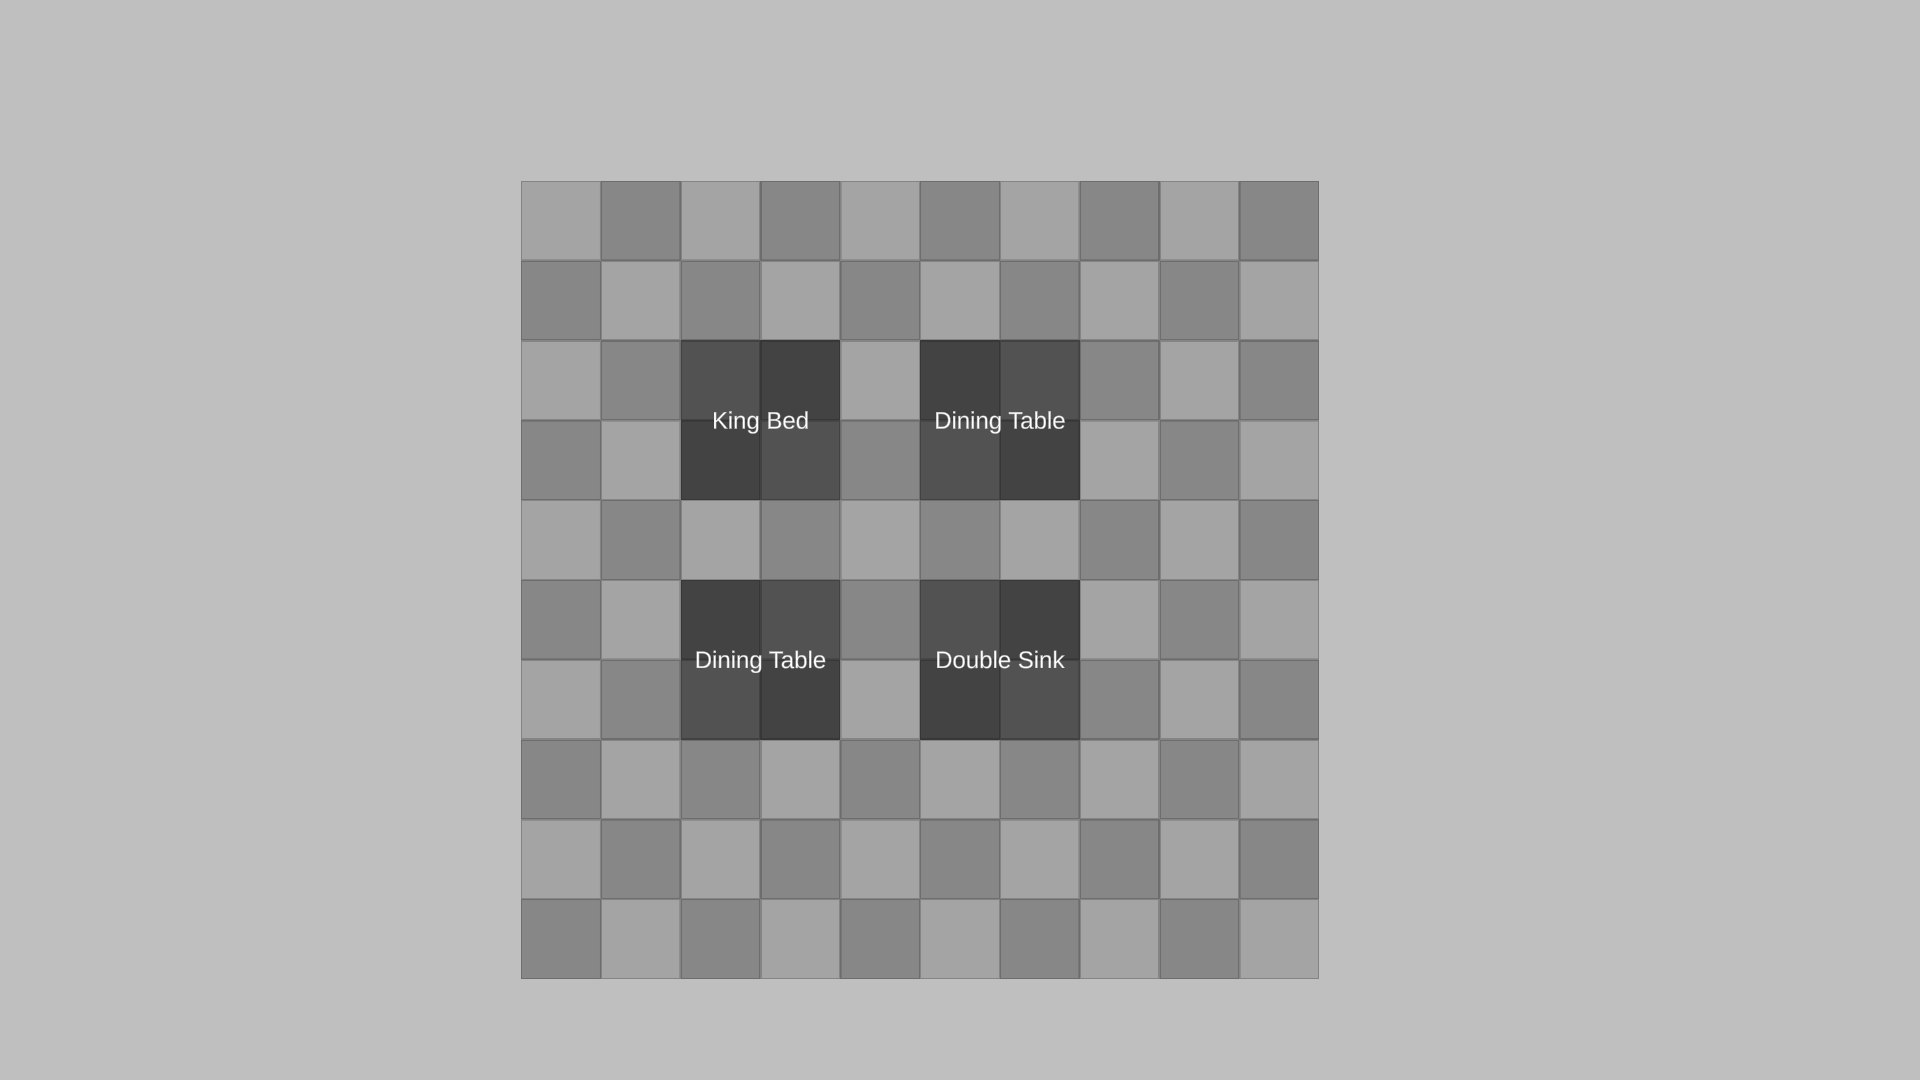
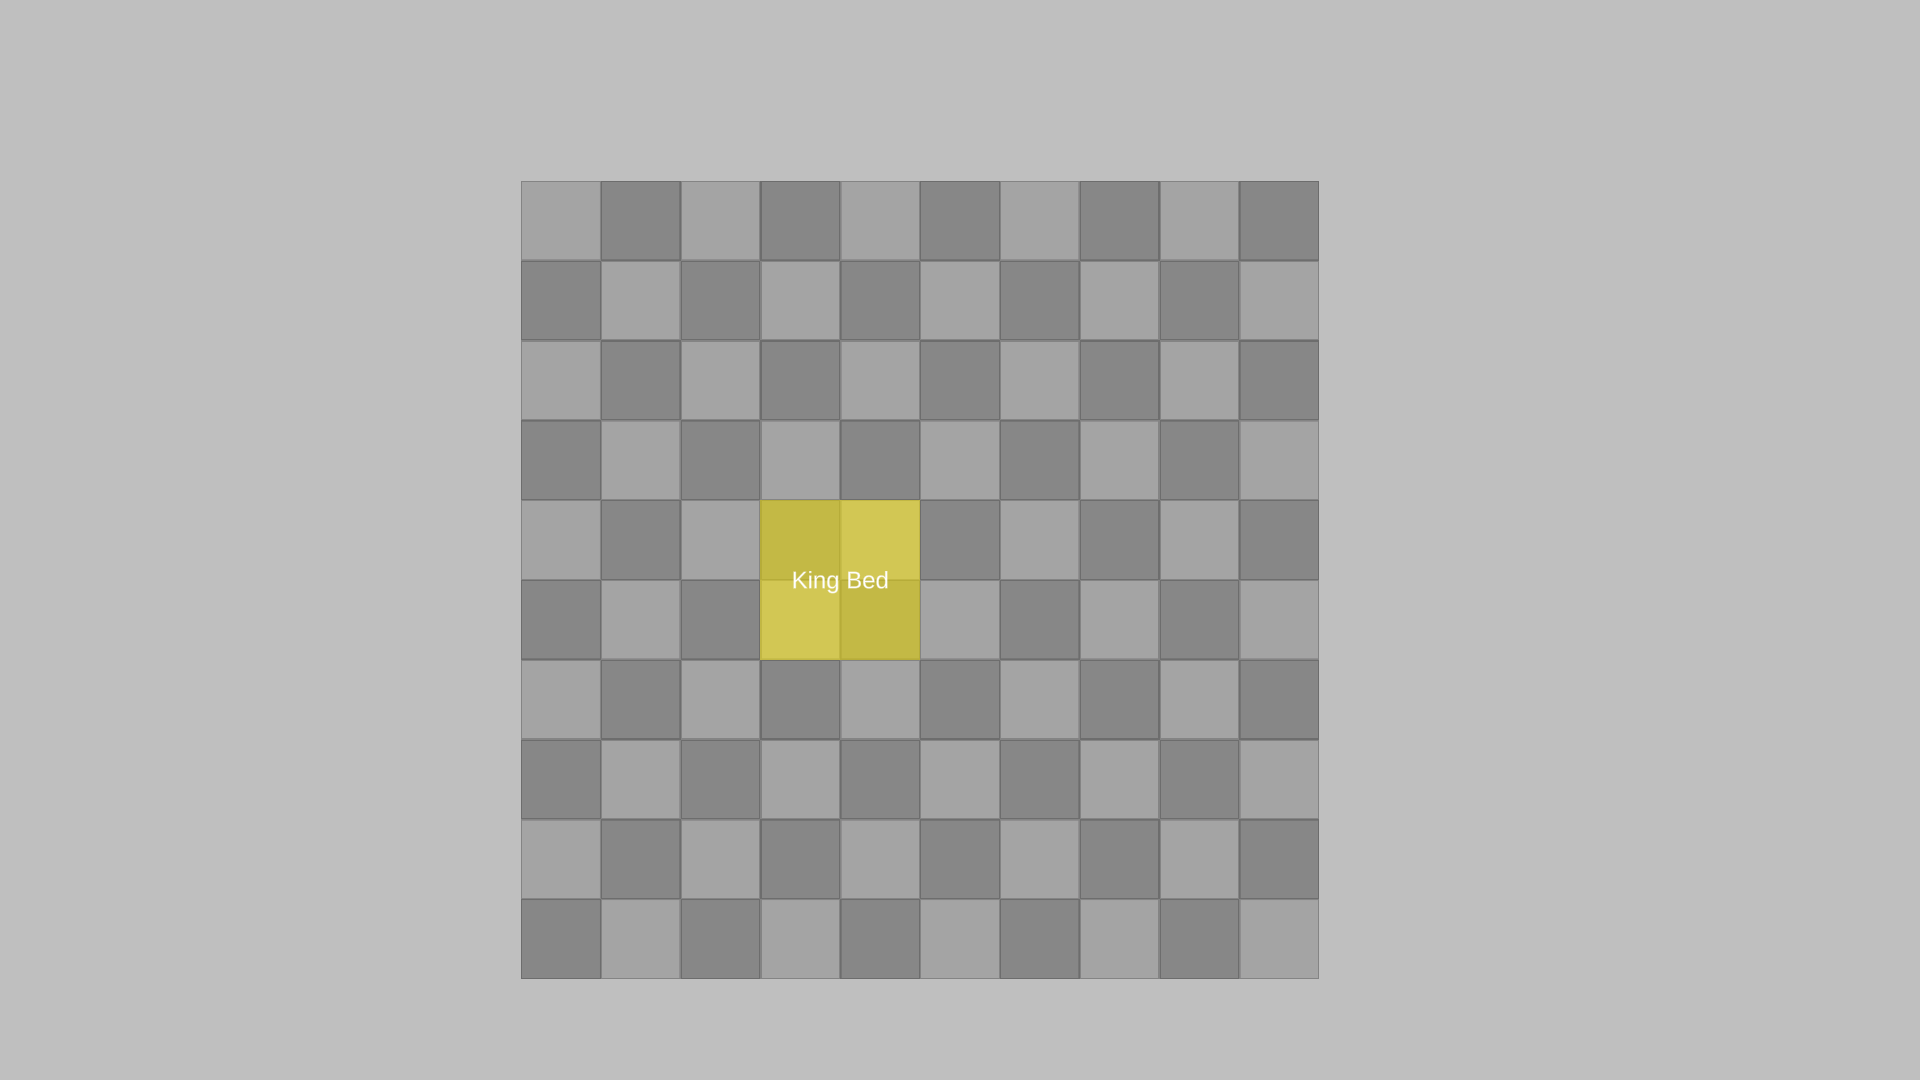
Fix Export Image

Changed region(s): [[0.3438, 0.3056, 0.5625, 0.7028]]

diff --git a/Assets/FloorPlanCapture.cs b/Assets/FloorPlanCapture.cs
@@ -20,19 +20,21 @@ public class FloorPlanCapture : MonoBehaviour
 
         RecenterCamera();
 
-        canvas.gameObject.GetComponent<Canvas>().enabled = false;;
+        Camera.main.cullingMask= ~(1<<LayerMask.NameToLayer("UI"));
+        // canvas.gameObject.GetComponent<Canvas>().enabled = false;;
         ScreenCapture.CaptureScreenshot("Floorplan.png");
         Invoke("Activate", 0.02f);
 
     }
 
     private void Activate(){
-         canvas.gameObject.GetComponent<Canvas>().enabled = true;
+        Camera.main.cullingMask |=(1<<LayerMask.NameToLayer("UI"));
+        //  canvas.gameObject.GetComponent<Canvas>().enabled = true;
     }
 
     public void RecenterCamera()
     {
-        Vector3 gridCenter = new Vector3(width / 2.0f, height / 2.0f, 0);
+        Vector3 gridCenter = new Vector3(width / 2.0f, height / 2.0f, -10.0f);
         cam.position = gridCenter;
     }
 }
